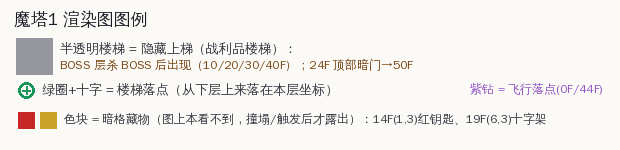
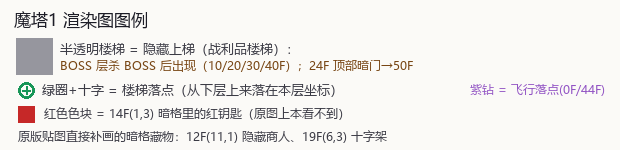
feat: 用原版贴图补画 12F 商人 / 19F 十字架（单层+总图）

diff --git a/01_PC98原版_mtower/tools/render_floors_stairs.py b/01_PC98原版_mtower/tools/render_floors_stairs.py
@@ -37,6 +37,7 @@ FLOORS_REL = '01_PC98原版_mtower/floors'
 MAP50_REL = '01_PC98原版_mtower/map_50f.png'
 ART = ROOT.parent / '08_Java_MTower08a' / 'art'
 FONT_PATH = '/usr/share/fonts/truetype/wqy/wqy-zenhei.ttc'
+FONT_FALLBACK = ('C:/Windows/Fonts/msyh.ttc', 'C:/Windows/Fonts/simhei.ttf')
 
 CELL, N = 40, 13
 MCELL, MGAP, MPAD = 520, 10, 10
@@ -65,11 +66,18 @@ FLY_IN = {0: (1, 2), 44: (1, 2)}
 
 # 暗格藏物：静态图上完全看不到，撞塌/触发后才露出物件（用户要求补画）
 #   14F(1,3) 暗墙 ter=1 → 红钥匙 obj28（DARKWALL_CELLS）
-#   19F(6,3)/(6,4) 崩塌墙 obj89 → 十字架 obj103（撞任一格获得）
 DARK_ITEMS = {
     (14, 1, 3): ('红钥', (198, 40, 40)),
-    (19, 6, 3): ('十字架', (201, 162, 39)),
-    (19, 6, 4): ('', (201, 162, 39)),
+}
+
+# 暗格藏物（原版贴图版）：不再画色块+文字标签，直接贴 MTower_sheet 的原始精灵
+#   12F(11,1) 撞塌墙 obj89 → 隐藏商人 obj17（"钥匙 1000G 一把"）→ 图集 col7,row5 粉衣坐姿商人
+#   19F(6,3)  撞塌墙 obj89 → 十字架 obj103（对僵尸/吸血鬼伤害×2）→ 图集 col7,row7
+#   ※ 图集 col7,row5 与 12F(1,1) 已画商人像素差=0，可整格直贴（自带暗色壁龛底）；
+#     图集 col7,row7 十字架自带 alpha（灰底 alpha=0），可直接叠在暗纹地板上。
+SPRITE_FIX = {
+    (12, 11, 1): (7, 5),
+    (19, 6, 3): (7, 7),
 }
 
 # ---- 半透明楼梯精灵（上行梯），前景蒙版按亮度提取 ----
@@ -78,13 +86,36 @@ UP = np.asarray(_spr).astype(float)
 _L = UP[..., 0] * 0.299 + UP[..., 1] * 0.587 + UP[..., 2] * 0.114
 MASK = np.clip((_L - 100.0) / (175.0 - 100.0), 0.0, 1.0) * ALPHA
 
+# ---- 原版精灵图集（暗格藏物贴图用） ----
+_SHEET = Image.open(ART / 'MTower_sheet.png').convert('RGBA')
+
+
+def sprite(col, row):
+    return _SHEET.crop((col * CELL, row * CELL, (col + 1) * CELL, (row + 1) * CELL))
+
+
+def draw_sprite_fix(img, ox, oy, fl):
+    """暗格藏物：直接贴原版图集精灵（不加色块、不加文字标签）。"""
+    for (f, x, y), (col, row) in SPRITE_FIX.items():
+        if f != fl:
+            continue
+        sp = sprite(col, row)
+        img.paste(sp, (ox + x * CELL, oy + y * CELL), sp)
+
 _fc = {}
 
 
 def font(sz):
     sz = max(7, int(sz))
     if sz not in _fc:
-        _fc[sz] = ImageFont.truetype(FONT_PATH, sz)
+        for p in (FONT_PATH,) + FONT_FALLBACK:
+            try:
+                _fc[sz] = ImageFont.truetype(p, sz)
+                break
+            except OSError:
+                continue
+        else:
+            _fc[sz] = ImageFont.load_default()
     return _fc[sz]
 
 
@@ -168,6 +199,7 @@ def single_floor(fl):
         hx, hy = GHOST[fl]
         ghost(arr, hx * CELL, hy * CELL)
     img = Image.fromarray(arr.round().clip(0, 255).astype('uint8'))
+    draw_sprite_fix(img, 0, 0, fl)
     dr = ImageDraw.Draw(img, 'RGBA')
     draw_dark(dr, 0, 0, fl)
     draw_points(dr, 0, 0, fl)
@@ -193,6 +225,7 @@ def render_map50():
     dr = ImageDraw.Draw(img, 'RGBA')
     for fl in range(51):
         ox, oy = cell_origin(fl)
+        draw_sprite_fix(img, ox, oy, fl)
         draw_dark(dr, ox, oy, fl)
         draw_points(dr, ox, oy, fl)
     return img
@@ -216,10 +249,11 @@ def legend_image():
            fill=(58, 58, 68))
     d.text((470, yy2 - 1), '紫钻 = 飞行落点(0F/44F)', font=font(12), fill=C_FLY)
     # 暗格藏物
-    yy3 = 112
+    yy3 = 106
     d.rectangle([18, yy3, 34, yy3 + 16], fill=(198, 40, 40, 160), outline=(198, 40, 40))
-    d.rectangle([40, yy3, 56, yy3 + 16], fill=(201, 162, 39, 160), outline=(201, 162, 39))
-    d.text((64, yy3 - 1), '色块 = 暗格藏物（图上本看不到，撞塌/触发后才露出）：14F(1,3)红钥匙、19F(6,3)十字架',
+    d.text((44, yy3 - 1), '红色色块 = 14F(1,3) 暗格里的红钥匙（原图上本看不到）',
+           font=font(12), fill=(58, 58, 68))
+    d.text((18, yy3 + 22), '原版贴图直接补画的暗格藏物：12F(11,1) 隐藏商人、19F(6,3) 十字架',
            font=font(12), fill=(58, 58, 68))
     return lg
 
